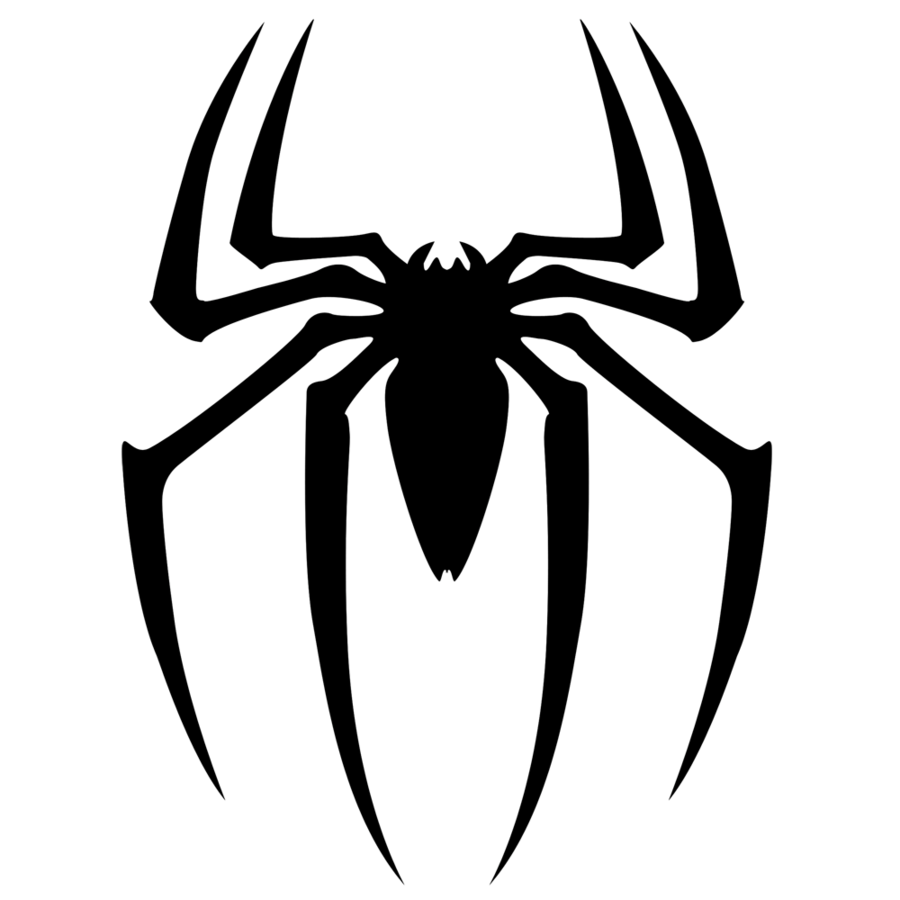
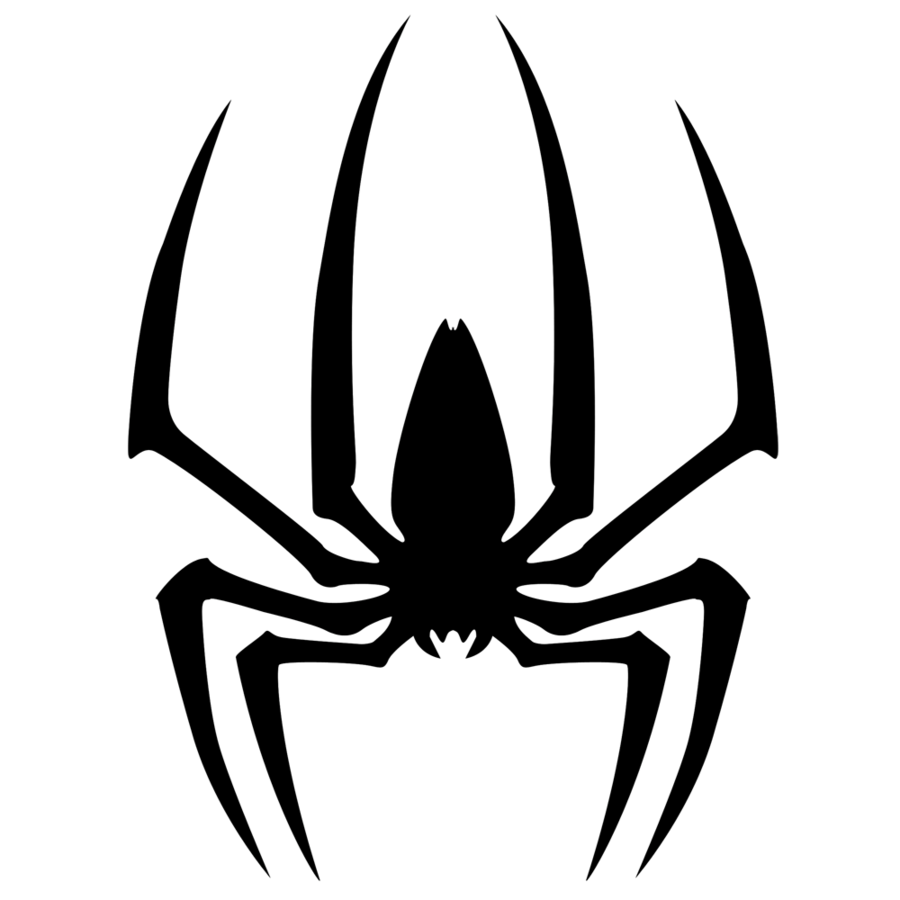
Second enemy

Changed region(s): [[0.1244, 0.0311, 0.8711, 0.9644]]

diff --git a/script.js b/script.js
@@ -1,7 +1,7 @@
 let hero = document.getElementById("hero");
 let game = document.getElementById("game");
 let highScore = document.getElementById("highScore");
-let messageElement = document.getElementById("message");
+let gameOver = document.getElementById("message");
 let scoreValue = 0;
 
 let playerAlive = true;
@@ -9,6 +9,7 @@ let bottom = 500;
 let left = 500;
 
 let enemySpeed = -20;
+let enemySpeed2 = -30;
 let heroRotation = 0;
 
 var timerVar = setInterval(countTimer, 1000);
@@ -24,13 +25,7 @@ localStorage.setItem("Highscore", JSON.stringify(highScore));
 
 function largest(arr) { 
     let i; 
-    
-    // Initialize maximum element 
     let max = arr[0]; 
-
-    // Traverse array elements  
-    // from second and compare 
-    // every element with current max  
     for (i = 1; i < arr.length; i++) {
         if (arr[i] > max) 
             max = arr[i]; 
@@ -122,6 +117,7 @@ document.addEventListener("keydown", (e) => {
 })
 
 let enemyId = 0;
+let enemyId2 = 0;
 
 function rand(min, max) {
     return Math.floor(Math.random() * (max - min + 1)) + min;
@@ -154,17 +150,17 @@ function createEnemy(randNum) {
 
         //Collision detector
         //if (enemyBottom > bottom && enemyBottom < bottom + 150 && enemyLeft === left) {
-        if (Math.abs(enemyBottom - bottom) < 25 && Math.abs(enemyLeft - left) < 25) {
+        if (Math.abs(enemyBottom - bottom) < 50 && Math.abs(enemyLeft - left) < 50) {
             console.log("HERO HIT");
             hero.remove();
-            messageElement.innerHTML = "Game over <br/>";
+            gameOver.innerHTML = "Game over <br/>";
             //clearInterval(move)
             clearInterval(move)
             playerAlive = false;
             enemy.remove();
             let newGameBtn = document.createElement("button");
             newGameBtn.innerHTML = "New game";
-            messageElement.appendChild(newGameBtn);
+            gameOver.appendChild(newGameBtn);
             clearInterval(timerVar);
             //Save time
             let highScore = JSON.parse(localStorage.getItem("Highscore"));
@@ -186,20 +182,18 @@ function createEnemy(randNum) {
             enemy.remove();
             //setTimeout(createEnemy(color), 5000);
             if (playerAlive) {
-                createEnemy();
+                enemy.remove();
+                createEnemy(1,2);
                 /* let randomNumber = Math.ceil(Math.random() * 10); */
                 
-                /* if (randNum > 0) {
+                if (randNum > 0) {
                     createEnemy((randNum - 1))
-                    } */
-                
+                    }
+        /*         
                 if((totalSeconds > 10 && totalSeconds < 20) || (totalSeconds > 40 && totalSeconds < 45)) {
               createEnemy();
               createEnemy();
-                      }
-                      
-                      
-            
+                      } */
                 }
             }
 
@@ -208,3 +202,84 @@ function createEnemy(randNum) {
 }
 
 createEnemy();
+
+
+
+
+function createEnemyRight() {
+
+    /* if (randNum > 0) {
+        createEnemy((randNum - 1))
+        } */
+
+    enemyId2++;
+    let enemy2 = document.createElement("img");
+    enemy2.classList = "enemy2";
+    let enemyLeft2 = document.documentElement.clientWidth;
+    let enemyBottom2 = Math.floor(Math.random() * document.documentElement.clientHeight / 10) * 9.5;
+
+    enemy2.src = "spiderLeft.png"
+    enemy2.style.left = enemyLeft2 + "px";
+    enemy2.style.bottom = enemyBottom2 + "px";
+    enemy2.id = enemyId2;
+
+    //stänger intervallen
+    let move = setInterval(() => {
+        //Hastighet
+        enemyLeft2 += enemySpeed2;
+        enemy2.style.left = enemyLeft2 + "px";
+
+        //Collision detector
+        //if (enemyBottom > bottom && enemyBottom < bottom + 150 && enemyLeft === left) {
+        if (Math.abs(enemyBottom2 - bottom) < 100 && Math.abs(enemyLeft2 - left) < 100) {
+            console.log("HERO HIT");
+            hero.remove();
+            gameOver.innerHTML = "Game over <br/>";
+            //clearInterval(move)
+            clearInterval(move)
+            playerAlive = false;
+            enemy2.remove();
+            let newGameBtn = document.createElement("button");
+            newGameBtn.innerHTML = "New game";
+            gameOver.appendChild(newGameBtn);
+            clearInterval(timerVar);
+            //Save time
+            let highScore = JSON.parse(localStorage.getItem("Highscore"));
+            highScore.push(timer.innerHTML);
+            localStorage.setItem("Highscore", JSON.stringify(highScore));
+
+            let arr = JSON.parse(localStorage.getItem("Highscore"));
+            document.getElementById("highScore").innerHTML = "Highscore: " + largest(arr);
+            
+
+            newGameBtn.onclick = function() {
+                location.reload();
+            }
+            //enemy.remove();
+        }
+        //Math.abs(enemyBottom - bottom) < 25
+        if (enemyBottom2 <= -100) {
+            clearInterval(move)
+            enemy2.remove();
+            //setTimeout(createEnemy(color), 5000);
+            if (playerAlive) {
+                createEnemyRight();
+                /* let randomNumber = Math.ceil(Math.random() * 10); */
+                
+                /* if (randNum > 0) {
+                    createEnemy((randNum - 1))
+                    } */
+        /*         
+                if((totalSeconds > 10 && totalSeconds < 20) || (totalSeconds > 40 && totalSeconds < 45)) {
+              createEnemy();
+              createEnemy();
+                      } */
+                }
+            }
+
+    }, 60);
+    game.appendChild(enemy2);
+}
+
+
+createEnemyRight();

diff --git a/index.html b/index.html
@@ -31,13 +31,11 @@
             left: 50px;
         }
 
-        .enemyTwo {
-            border: 1px solid black;
-            background-color: rgb(214, 20, 221);
+        .enemy2 {
             text-align: center;
             position: absolute;
-            width: 50px;
-            height: 50px;
+            width: 250px;
+            height: 250px;
             bottom: 0px;
             left: 50px;
         }
